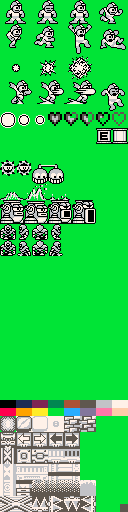
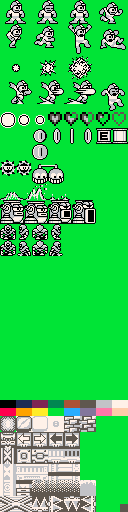
* Coin pickups. Need to figure out how to remember what's been picked up still.

diff --git a/mbh-platformer/mbh-platformer/Game1.cs b/mbh-platformer/mbh-platformer/Game1.cs
@@ -2799,6 +2799,7 @@ namespace mbh_platformer
                 bounce,
                 death,
                 artifact_picked_up,
+                gem_picked_up,
             }
 
             Dictionary<pause_reason, int> pause_times = new Dictionary<pause_reason, int>()
@@ -2806,6 +2807,7 @@ namespace mbh_platformer
                 { pause_reason.bounce, 0 }, // no pause for now. happens too much.
                 { pause_reason.death, 30 },
                 { pause_reason.artifact_picked_up, 30 },
+                { pause_reason.gem_picked_up, 0 },
             };
 
             public int pause_time_remaining { get; protected set; }
@@ -2882,6 +2884,49 @@ namespace mbh_platformer
             {
                 // do nothing.
                 base._draw();
+            }
+        }
+
+        public class gem_pickup : sprite
+        {
+            public gem_pickup()
+            {
+                    anims = new Dictionary<string, anim>()
+                    {
+                        {
+                            "default",
+                            new anim()
+                            {
+                                ticks=15,//how long is each frame shown.
+                                frames = new int[][]
+                                {
+                                    create_anim_frame(292, 2, 2),
+                                    create_anim_frame(262, 2, 2),
+                                    create_anim_frame(264, 2, 2),
+                                    create_anim_frame(266, 2, 2),
+                                }
+                            }
+                        },
+                    };
+
+                set_anim("default");
+
+                w = 16;
+                h = 16;
+                cw = 16;
+                ch = 16;
+            }
+
+            public override void _update60()
+            {
+                base._update60();
+
+                if (inst.intersects_obj_obj(inst.pc.pawn, this))
+                {
+                    inst.objs_remove_queue.Add(this);
+                    inst.hit_pause.start_pause(hit_pause_manager.pause_reason.gem_picked_up);
+                    return;
+                }
             }
         }
 
@@ -3147,6 +3192,16 @@ namespace mbh_platformer
 
                                         objs_add_queue.Add(ap);
                                     }
+                                }
+                                else if (string.Compare(o.Type, "gem", true) == 0)
+                                {
+                                    gem_pickup gem = new gem_pickup()
+                                    {
+                                        x = (float)o.X + ((float)o.Width * 0.5f),
+                                        y = (float)o.Y + ((float)o.Height * 0.5f),
+                                    };
+
+                                    objs_add_queue.Add(gem);
                                 }
                             }
                         }
